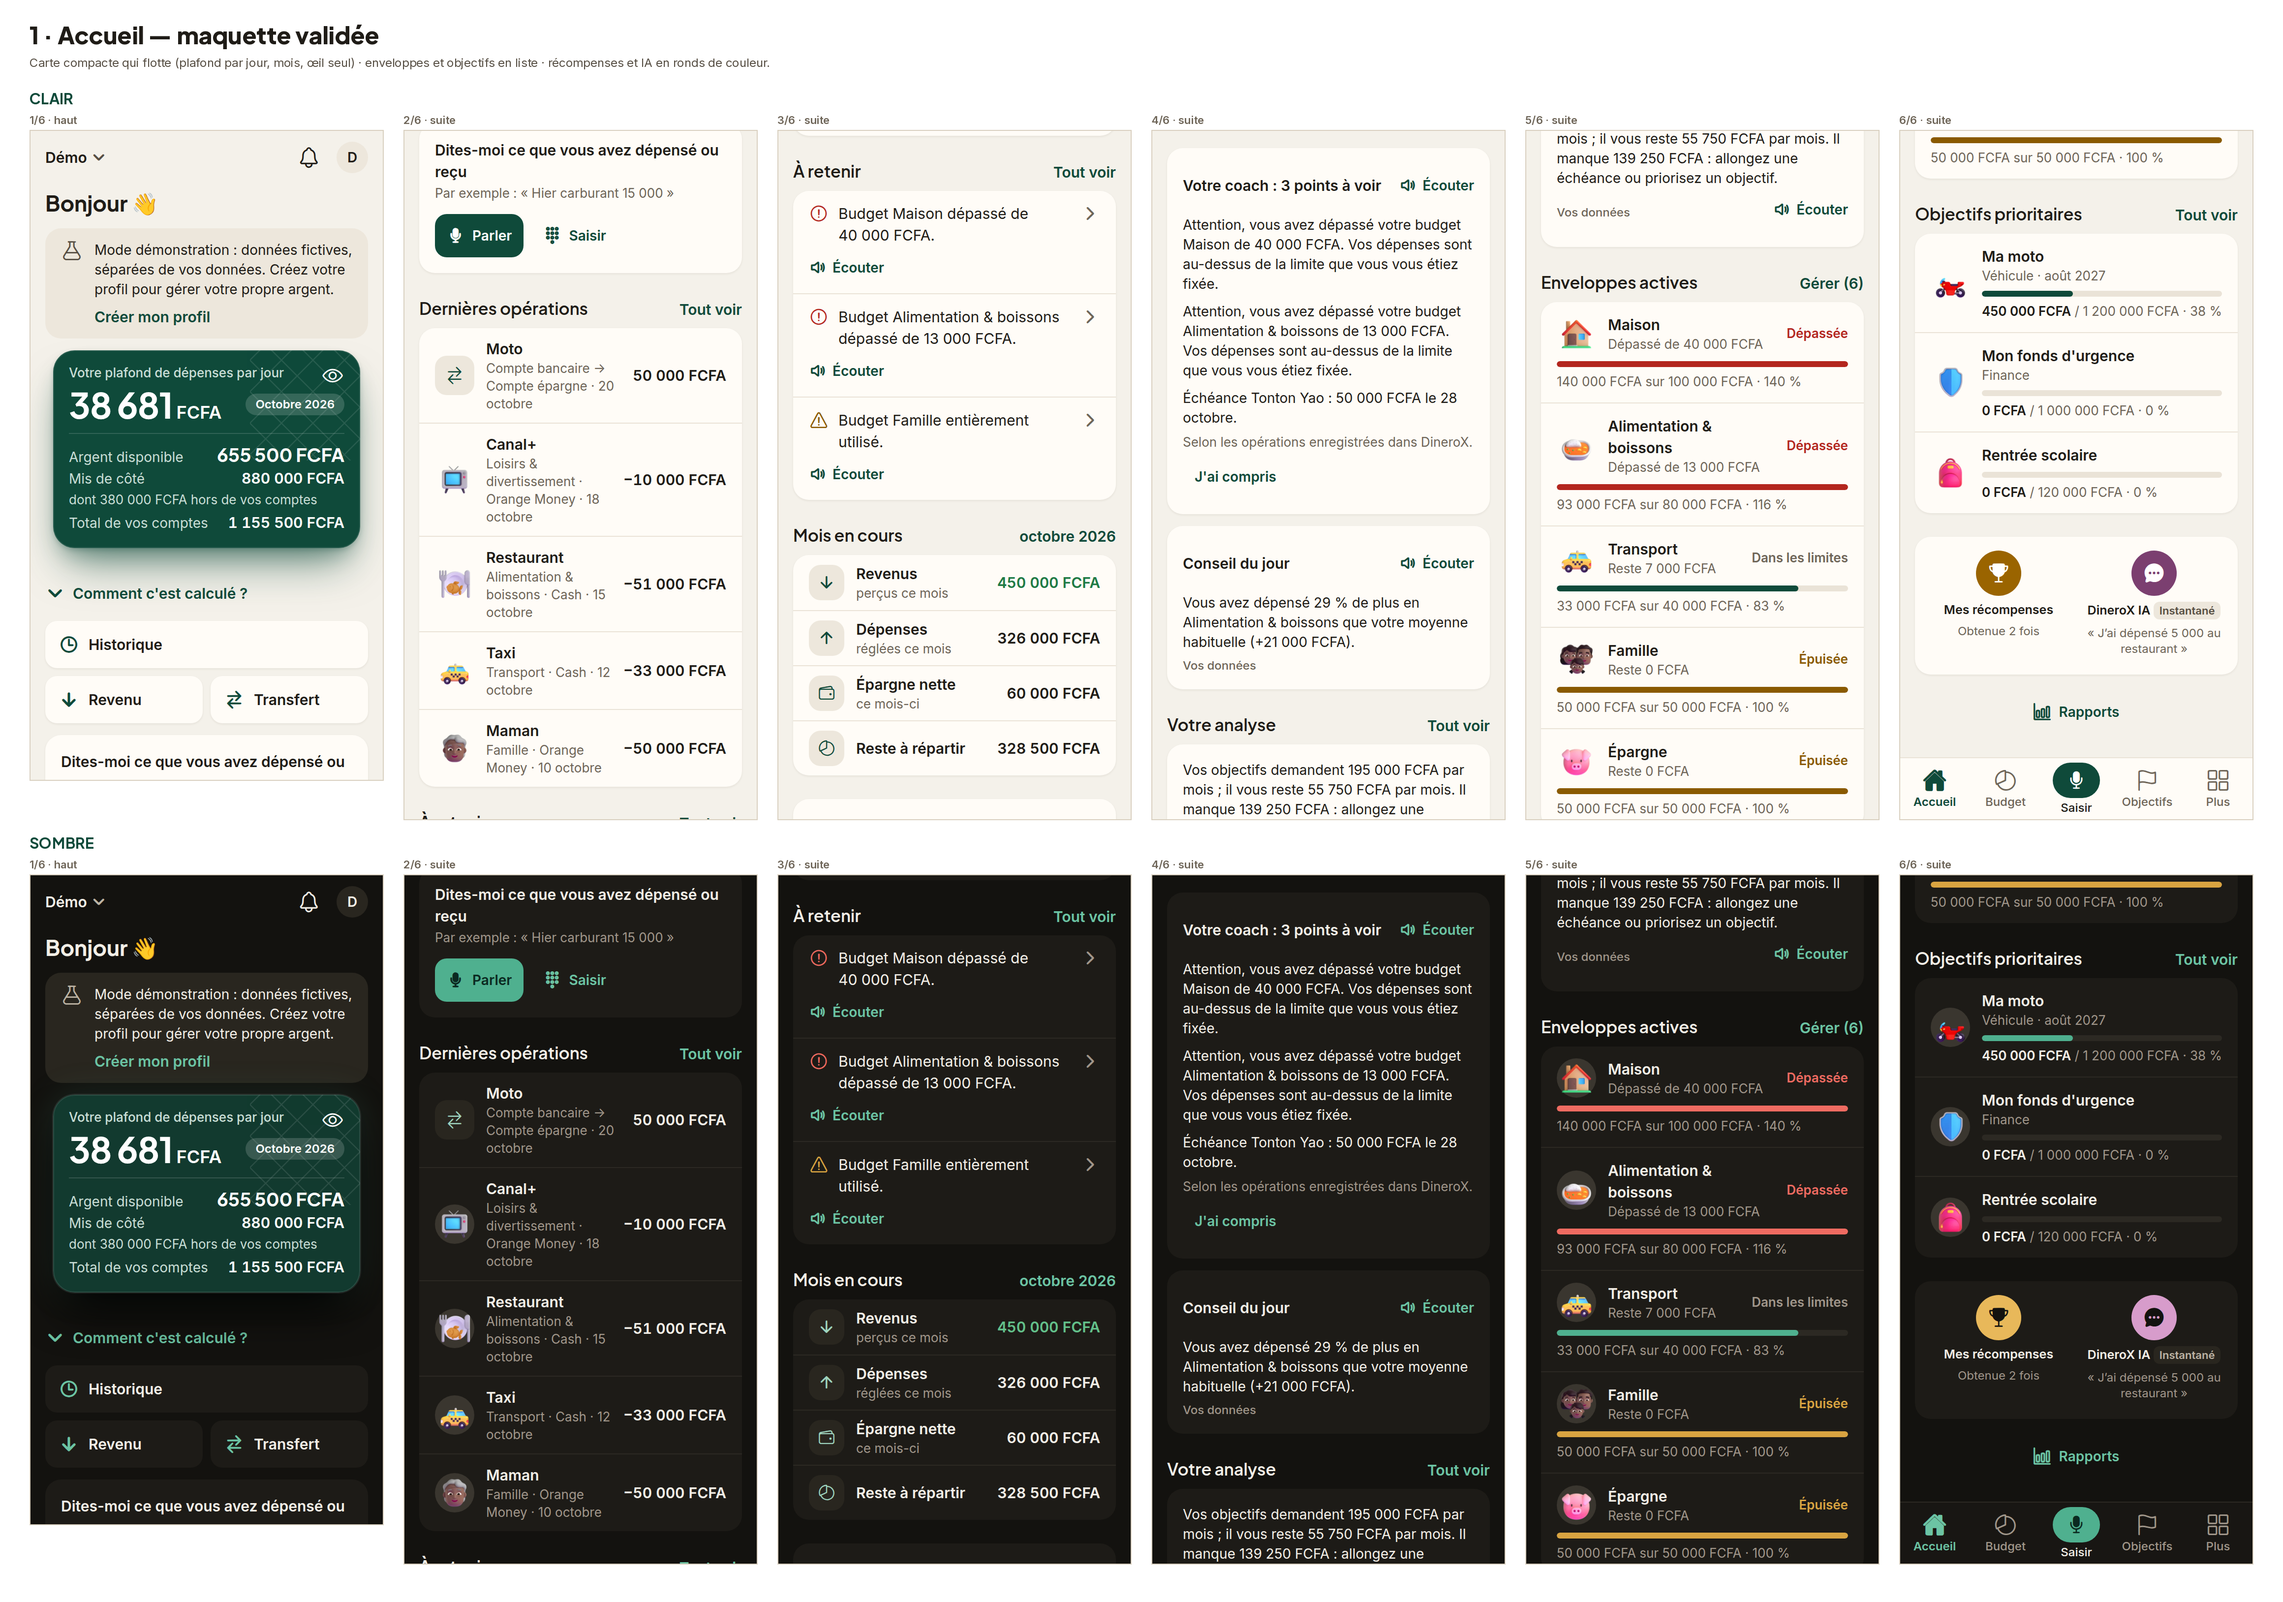
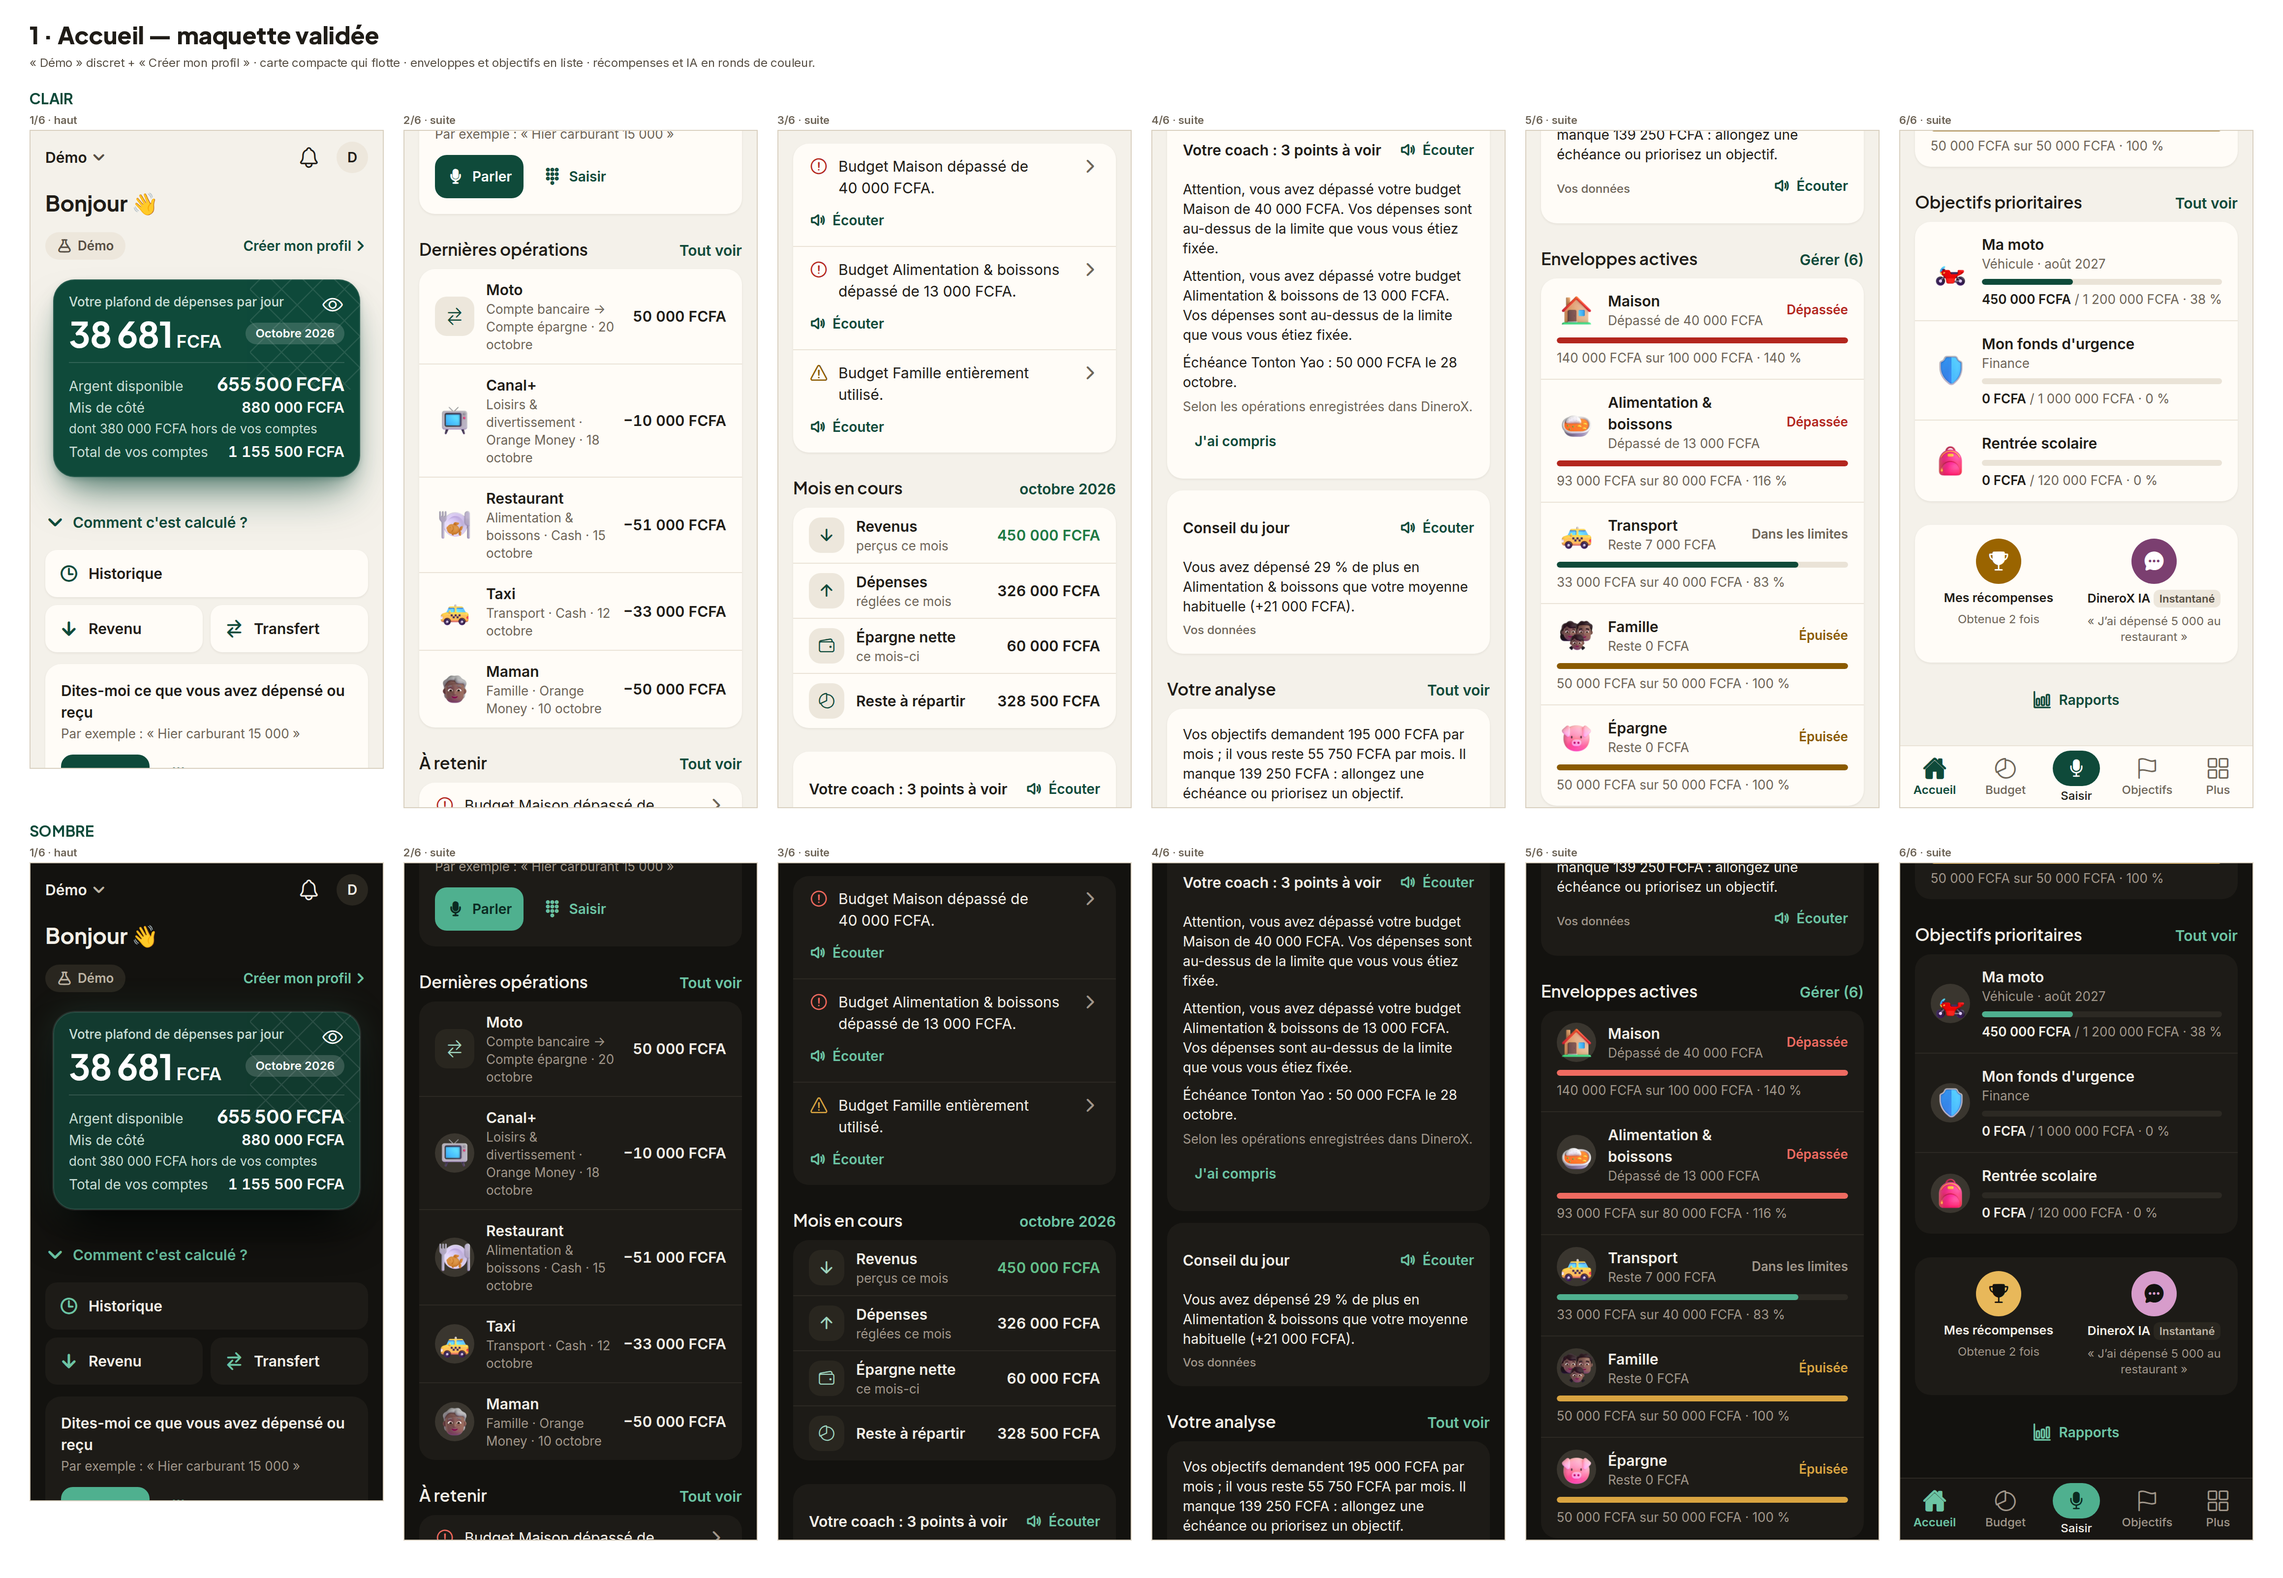
Design-pro : maquette validée — mode démo discret (pastille « Démo » + « Créer mon profil »)
Claude-Session: https://claude.ai/code/session_01NcPA4XPDLbyZwofZVMkfpV

diff --git a/dinerox/docs/design-pro-maquette-validee/maquette-index.html b/dinerox/docs/design-pro-maquette-validee/maquette-index.html
@@ -296,6 +296,11 @@ body.f4.dark .hc-b.full { box-shadow: 0 0 0 1px rgba(255,255,255,.09), 0 26px 44
 body.f4 .hc-b:not(.full) { margin: 0 8px 22px; border-radius: 22px; box-shadow: 0 26px 44px -14px rgba(15,74,58,.62), 0 12px 22px -8px rgba(15,74,58,.34), 0 2px 5px rgba(15,74,58,.18); }
 body.f4.dark .hc-b:not(.full) { box-shadow: 0 0 0 1px rgba(255,255,255,.09), 0 26px 44px -10px rgba(0,0,0,.95), 0 0 36px rgba(79,176,143,.16); }
 
+.demo2 { display: flex; align-items: center; justify-content: space-between; min-height: 44px; margin: -4px 0 12px; }
+.demo2 .dchip { display: inline-flex; align-items: center; gap: 6px; font: 600 13px/18px var(--body); color: var(--text2); background: var(--surface2); border-radius: 999px; padding: 5px 12px; }
+.demo2 .dchip .ic { font-size: 15px; }
+.demo2 .dlink { display: inline-flex; align-items: center; gap: 2px; min-height: 44px; font: 600 14px/20px var(--body); color: var(--brandInk); }
+.demo2 .dlink .ic { font-size: 15px; }
 body.full .tx { padding-top: 10px; padding-bottom: 10px; align-items: center; }
 body.full .tx .mid div { white-space: normal; }
 </style>
@@ -421,6 +426,7 @@ function budget(d) {
 // dans l'en-tête (« Notifications » reste le libellé d'accessibilité). Les autres propositions de
 // l'étape 2 ne sont PAS appliquées. Les cartes « selon la situation » sont entourées d'un pointillé de maquette.
 let HEROV2 = false;
+let DEMO2 = false;
 let MONTH = null;
 function heroFull() {
   if (HEROV2 && MONTH === '4') return `<div class="hc-b full c4">${PATTERN}<div class="body">
@@ -488,7 +494,7 @@ function homefull() {
   const goals = [['composees/moto_rouge_3d', 'Ma moto', 'Véhicule · août 2027', '450 000 FCFA', '/ 1 200 000 FCFA · 38 %', 38], ['shield', 'Mon fonds d\'urgence', 'Finance', '0 FCFA', '/ 1 000 000 FCFA · 0 %', 0], ['backpack', 'Rentrée scolaire', '', '0 FCFA', '/ 120 000 FCFA · 0 %', 0]];
   return `<div class="scroll">${topbar()}
     <div class="hello">Bonjour 👋</div>
-    <div class="banner">${ic('flask-outline')}<div><div class="t-body" style="font-size:14px;line-height:20px">Mode démonstration : données fictives, séparées de vos données. Créez votre profil pour gérer votre propre argent.</div><div class="link" style="margin-top:8px">Créer mon profil</div></div></div>
+    ${DEMO2 ? `<div class="demo2" aria-label="Mode démonstration : données fictives, séparées de vos données. Créez votre profil pour gérer votre propre argent."><span class="dchip">${ic('flask-outline')} Démo</span><span class="dlink">Créer mon profil ${ic('chevron-forward')}</span></div>` : `<div class="banner">${ic('flask-outline')}<div><div class="t-body" style="font-size:14px;line-height:20px">Mode démonstration : données fictives, séparées de vos données. Créez votre profil pour gérer votre propre argent.</div><div class="link" style="margin-top:8px">Créer mon profil</div></div></div>`}
     ${heroFull()}
     ${SIT ? `<div class="sit"><div class="sit-l">Selon la situation · à la place de la carte ci-dessus, tant que l'argent n'est pas renseigné</div>${sitCard('wallet-outline', '', 'Votre argent disponible aujourd\'hui', b('pri', 'Enregistrer mon argent disponible'), `<div class="note">Ce qu'il y a aujourd'hui sur chaque compte. Ensuite, l'argent ne change que par vos opérations.</div>`)}</div>` : ''}
     ${SIT ? `<div class="sits-h">Cartes qui apparaissent selon la situation (ici toutes à la fois)</div>` : ''}
@@ -645,6 +651,7 @@ function board(d) {
     if (q.get('f')) document.body.classList.add(q.get('f'));
     HEROV2 = q.get('hero') === '2';
     MONTH = q.get('m');
+    DEMO2 = q.get('demo') === '2';
     if (q.get('bg')) document.body.classList.add(q.get('bg'));
     document.documentElement.style.setProperty('--vh', innerHeight + 'px');
     document.body.setAttribute('style', vars(d, t));

diff --git a/dinerox/docs/design-pro-maquette-validee/README.md b/dinerox/docs/design-pro-maquette-validee/README.md
@@ -6,7 +6,7 @@ flottantes A/B/C, mois dans la phrase…) sont abandonnés.
 - `MAQUETTE-1-accueil.png`, `MAQUETTE-2-budget.png`, `MAQUETTE-3-objectifs.png`, `MAQUETTE-4-plus.png` :
   chaque écran du haut jusqu'en bas, en clair et en sombre (360 dp).
 - `ecrans/` : les mêmes écrans en une seule image longue chacun (720 px = 360 dp × 2).
-- `maquette-index.html` : `?d=b&s=homefull|budgetfull|goalsfull&t=light|dark&sit=0&hero=2&m=4&f=f4`
+- `maquette-index.html` : `?d=b&s=homefull|budgetfull|goalsfull&t=light|dark&sit=0&hero=2&m=4&f=f4&demo=2`
   (à servir depuis `dinerox/docs/design-pro/` ; polices et icônes : `directions/fonts`, `icones/`).
 - `maquette-plus-clair.html` / `maquette-plus-sombre.html` : écran Plus.
 - Palette exacte des ronds de couleur : `../design-pro-paves-plus/README.md`.
@@ -23,3 +23,6 @@ Décisions :
 5. Contenus (enveloppes, objectifs, réserves, moments forts) : en LISTE, icônes 3D validées ;
    « Libre » : sacs de courses.
 6. Logos des opérateurs Mobile Money sur tous les écrans.
+7. Mode démonstration : le grand encadré explicatif est SUPPRIMÉ de l'accueil. À la place, une ligne
+   discrète : pastille « Démo » (icône fiole) à gauche, lien « Créer mon profil › » à droite (même
+   action qu'avant). Le texte explicatif reste en libellé d'accessibilité (lecteur d'écran).
